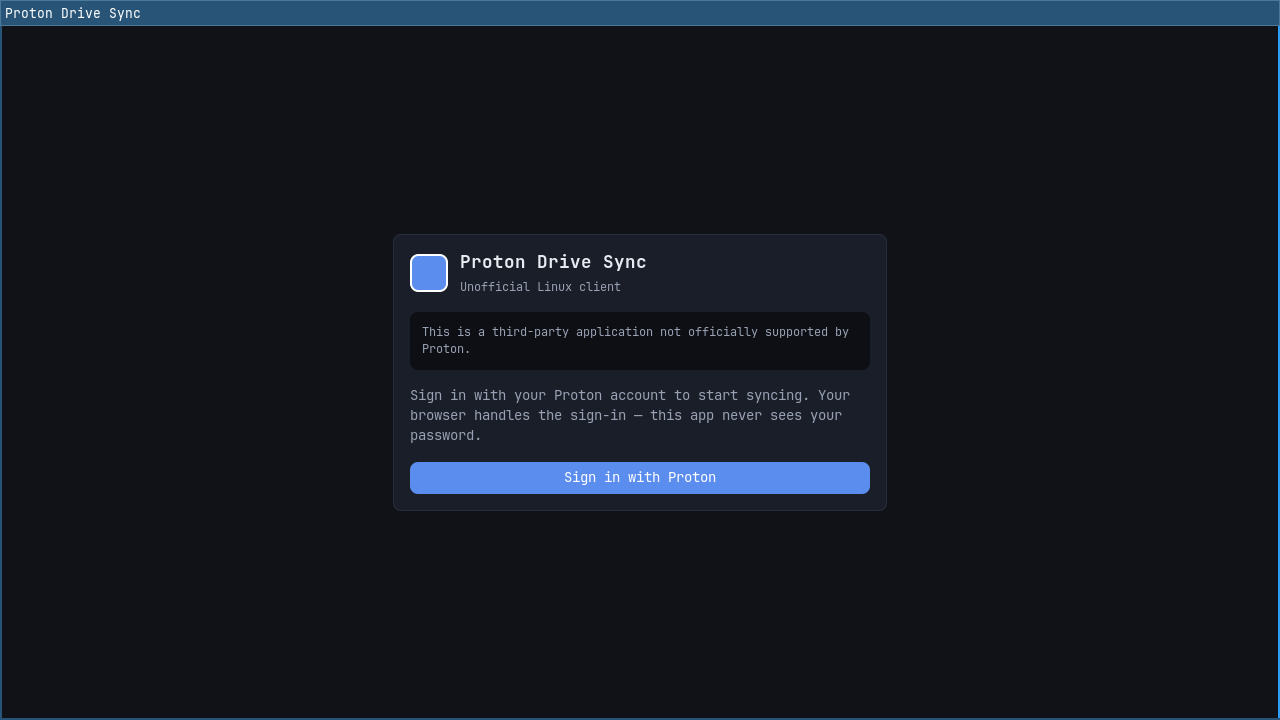
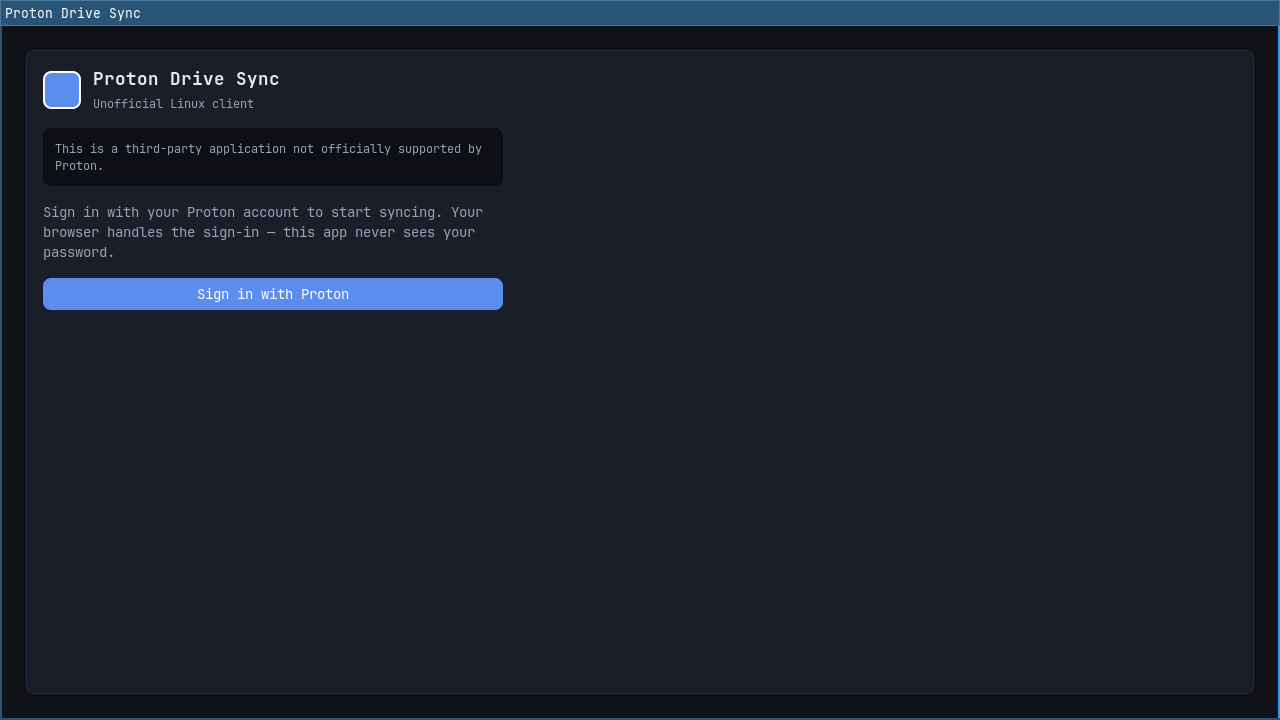
fix(mygo-shell): runtime layout and truncation issues
- Replace outer ui.Scroll page wrappers with ui.Box so pages fill the
  main content width instead of collapsing to the right.
- Add FillWidth/Grow/MinHeight to page outer containers; keep header and
  status bar at natural height.
- Widen sidebar to 260 and let the status card label wrap.
- Remove SingleLine from overview headline so long status text wraps.
- Update runtime screenshots.

diff --git a/mygo-shell/main.go b/mygo-shell/main.go
@@ -756,12 +756,16 @@ func appCard(c *ui.Context, children func()) ui.Element {
 	return ui.Box(c).Background(t.Surface).Border(1, t.Border).Radius(t.Radius).Padding(t.Space(4)).Children(children)
 }
 
+func pageCard(c *ui.Context, children func()) ui.Element {
+	return appCard(c, children).Grow(1).FillWidth()
+}
+
 func statusDot(c *ui.Context, label string, color ui.Color) ui.Element {
 	t := c.Theme()
 	size := t.Space(1.75)
-	return ui.Row(c).Gap(t.Space(2)).AlignItems(ui.Center).Children(func() {
+	return ui.Row(c).Gap(t.Space(2)).AlignItems(ui.Start).Children(func() {
 		ui.Box(c).Width(size).Height(size).Radius(size / 2).Background(color)
-		ui.Text(c, label).TextColor(color).FontSize(t.FontSize)
+		ui.Text(c, label).TextColor(color).FontSize(t.FontSize * 0.85).Grow(1)
 	})
 }
 
@@ -949,7 +953,7 @@ func (a *app) renderFailure(c *ui.Context) {
 	}
 
 	ui.Column(c).Fill().AlignItems(ui.Center).Justify(ui.Center).Padding(t.Space(6)).Children(func() {
-		appCard(c, func() {
+		pageCard(c, func() {
 			ui.Column(c).Gap(t.Space(4)).Width(520).Children(func() {
 				a.brandBlock(c)
 				ui.Text(c, "Sync is stopped").FontSize(t.FontSize * 1.25).Bold().TextColor(danger)
@@ -977,7 +981,7 @@ func (a *app) renderLogin(c *ui.Context) {
 	a.mu.Unlock()
 
 	ui.Column(c).Fill().AlignItems(ui.Center).Justify(ui.Center).Padding(t.Space(6)).Children(func() {
-		appCard(c, func() {
+		pageCard(c, func() {
 			ui.Column(c).Gap(t.Space(4)).Width(460).Children(func() {
 				a.brandBlock(c)
 				ui.Box(c).Background(inset).Padding(t.Space(3)).Radius(t.Radius).Children(func() {
@@ -1037,7 +1041,7 @@ func (a *app) renderShell(c *ui.Context) {
 	t := c.Theme()
 	ui.Row(c).Fill().Children(func() {
 		a.renderSidebar(c)
-		ui.Column(c).Grow(1).Children(func() {
+		ui.Column(c).Grow(1).MinHeight(0).Children(func() {
 			a.renderHeader(c)
 			a.renderPage(c)
 			ui.Divider(c).Height(1).Background(t.Border)
@@ -1054,7 +1058,7 @@ func (a *app) renderSidebar(c *ui.Context) {
 	account := a.accountLabel()
 	a.mu.Unlock()
 
-	ui.Column(c).Width(232).Fill().Background(sidebar).Padding(t.Space(4)).Gap(t.Space(2)).Children(func() {
+	ui.Column(c).Width(260).Fill().Background(sidebar).Padding(t.Space(4)).Gap(t.Space(2)).Children(func() {
 		a.brandBlock(c)
 
 		ui.Column(c).Gap(t.Space(1)).Grow(1).Padding(0, 0, t.Space(4), 0).Children(func() {
@@ -1063,13 +1067,13 @@ func (a *app) renderSidebar(c *ui.Context) {
 			}
 		})
 
-		appCard(c, func() {
-			ui.Column(c).Gap(t.Space(3)).Children(func() {
+		ui.Box(c).Background(t.Surface).Border(1, t.Border).Radius(t.Radius).Padding(t.Space(2)).Children(func() {
+			ui.Column(c).Gap(t.Space(2)).Children(func() {
 				dot, _, _ := a.badgeColors()
 				statusDot(c, badgeText, dot)
-				ui.Text(c, account).FontSize(t.FontSize).Bold().SingleLine()
+				ui.Text(c, account).FontSize(t.FontSize * 0.85).Bold()
 				pauseLabel := a.pauseLabel()
-				if ui.Button(c, pauseLabel).Background(accent).TextColor(ui.RGB(0xff, 0xff, 0xff)).Fill().Clicked() {
+				if ui.Button(c, pauseLabel).Background(accent).TextColor(ui.RGB(0xff, 0xff, 0xff)).Fill().FontSize(t.FontSize * 0.85).Clicked() {
 					go a.togglePause()
 				}
 			})
@@ -1226,20 +1230,20 @@ func (a *app) renderOverview(c *ui.Context) {
 	recent := a.recentActivity(7)
 	a.mu.Unlock()
 
-	ui.Scroll(c).TrackScroll(&a.overviewScroll).Grow(1).Padding(t.Space(7)).Children(func() {
-		ui.Column(c).Gap(t.Space(5)).Children(func() {
+	ui.Box(c).FillWidth().Grow(1).MinHeight(0).Padding(t.Space(7)).Children(func() {
+		ui.Column(c).Grow(1).MinHeight(0).Gap(t.Space(5)).Children(func() {
 			if a.engineState() == "GuardPaused" {
 				banner(c, "Too many deletes in a short window",
 					"Syncing is paused to protect your Drive. Review the pending deletions, then resume to approve them.",
 					danger, dangerSoft)
 			}
 
-			appCard(c, func() {
+			pageCard(c, func() {
 				ui.Column(c).Gap(t.Space(4)).Children(func() {
 					ui.Row(c).AlignItems(ui.Start).Justify(ui.SpaceBetween).Gap(t.Space(4)).Children(func() {
 						ui.Column(c).Gap(t.Space(1)).Children(func() {
 							ui.Text(c, headline).FontSize(t.FontSize * 1.75).Bold()
-							ui.Text(c, account).FontSize(t.FontSize).TextColor(t.TextMuted)
+							ui.Text(c, account).FontSize(t.FontSize).TextColor(t.TextMuted).SingleLine()
 						})
 						pill(c, badgeText, badgeFg, badgeBg)
 					})
@@ -1273,7 +1277,7 @@ func (a *app) renderOverview(c *ui.Context) {
 			})
 
 			if attention > 0 {
-				appCard(c, func() {
+				pageCard(c, func() {
 					ui.Column(c).Gap(t.Space(3)).Children(func() {
 						ui.Row(c).AlignItems(ui.Center).Justify(ui.SpaceBetween).Children(func() {
 							sectionTitle(c, "Needs attention", "Conflicts and failed uploads")
@@ -1292,7 +1296,7 @@ func (a *app) renderOverview(c *ui.Context) {
 				})
 			}
 
-			appCard(c, func() {
+			pageCard(c, func() {
 				ui.Column(c).Gap(t.Space(3)).Children(func() {
 					ui.Row(c).AlignItems(ui.Center).Justify(ui.SpaceBetween).Children(func() {
 						sectionTitle(c, "Recent activity", "Newest first")
@@ -1333,48 +1337,48 @@ func (a *app) renderActivity(c *ui.Context) {
 
 	rows := a.filteredActivity(f)
 
-	ui.Column(c).Grow(1).MinHeight(0).Padding(t.Space(7)).Gap(t.Space(4)).Children(func() {
-		ui.Row(c).Gap(t.Space(2)).Wrap().Children(func() {
-			for _, candidate := range allFilters {
-				active := candidate == f
-				count := a.activityCount(candidate)
-				el := ui.Button(c, fmt.Sprintf("%s %d", candidate.label(), count)).
-					FontSize(t.FontSize*0.85).Padding(t.Space(1), t.Space(3)).Radius(999)
-				if active {
-					el = el.Background(accent).TextColor(t.Text)
-				} else {
-					el = el.Background(t.Surface).TextColor(t.TextMuted)
-				}
-				if el.Clicked() {
-					a.setFilter(candidate)
-				}
-			}
-		})
-
-		appCard(c, func() {
-			ui.Column(c).Grow(1).MinHeight(0).Children(func() {
-				ui.Row(c).AlignItems(ui.Center).Justify(ui.SpaceBetween).Padding(t.Space(3), t.Space(4)).Children(func() {
-					ui.Text(c, fmt.Sprintf("%d %s", len(rows), pluralize(len(rows), "event", "events"))).FontSize(t.FontSize).Bold()
-					if ui.Button(c, "Settings").Background(t.SurfaceHover).TextColor(t.Text).Clicked() {
-						a.setPage(pageSettings)
+	ui.Box(c).FillWidth().Grow(1).MinHeight(0).Padding(t.Space(7)).Children(func() {
+		ui.Column(c).Grow(1).MinHeight(0).Gap(t.Space(4)).Children(func() {
+			ui.Row(c).Gap(t.Space(2)).Wrap().Children(func() {
+				for _, candidate := range allFilters {
+					active := candidate == f
+					count := a.activityCount(candidate)
+					el := ui.Button(c, fmt.Sprintf("%s %d", candidate.label(), count)).
+						FontSize(t.FontSize*0.85).Padding(t.Space(1), t.Space(3)).Radius(999)
+					if active {
+						el = el.Background(accent).TextColor(t.Text)
+					} else {
+						el = el.Background(t.Surface).TextColor(t.TextMuted)
 					}
-				})
-				if len(rows) == 0 {
-					emptyState(c, "Nothing here yet", "Sync activity will show up as files move in either direction.")
-				} else {
-					ui.Row(c).Gap(t.Space(3)).Padding(t.Space(2), t.Space(4)).Children(func() {
-						ui.Text(c, "Time").FontSize(t.FontSize * 0.85).TextColor(faint).Width(64)
-						ui.Text(c, "Event").FontSize(t.FontSize * 0.85).TextColor(faint).Width(92)
-						ui.Text(c, "Path").FontSize(t.FontSize * 0.85).TextColor(faint).Grow(1)
+					if el.Clicked() {
+						a.setFilter(candidate)
+					}
+				}
+			})
+
+			pageCard(c, func() {
+				ui.Column(c).Grow(1).MinHeight(0).Children(func() {
+					ui.Row(c).AlignItems(ui.Center).Justify(ui.SpaceBetween).Padding(t.Space(3), t.Space(4)).Children(func() {
+						ui.Text(c, fmt.Sprintf("%d %s", len(rows), pluralize(len(rows), "event", "events"))).FontSize(t.FontSize).Bold()
+						if ui.Button(c, "Settings").Background(t.SurfaceHover).TextColor(t.Text).Clicked() {
+							a.setPage(pageSettings)
+						}
 					})
-					ui.Scroll(c).TrackScroll(&a.activityScroll).Grow(1).Children(func() {
-						ui.Column(c).Children(func() {
+					if len(rows) == 0 {
+						emptyState(c, "Nothing here yet", "Sync activity will show up as files move in either direction.")
+					} else {
+						ui.Row(c).Gap(t.Space(3)).Padding(t.Space(2), t.Space(4)).Children(func() {
+							ui.Text(c, "Time").FontSize(t.FontSize * 0.85).TextColor(faint).Width(64)
+							ui.Text(c, "Event").FontSize(t.FontSize * 0.85).TextColor(faint).Width(92)
+							ui.Text(c, "Path").FontSize(t.FontSize * 0.85).TextColor(faint).Grow(1)
+						})
+						ui.Column(c).Grow(1).MinHeight(0).Children(func() {
 							for _, it := range rows {
 								a.activityRow(c, it)
 							}
 						})
-					})
-				}
+					}
+				})
 			})
 		})
 	})
@@ -1411,16 +1415,16 @@ func (a *app) renderConflicts(c *ui.Context) {
 	errored := append([]erroredItem(nil), a.errored...)
 	a.mu.Unlock()
 
-	ui.Scroll(c).TrackScroll(&a.conflictsScroll).Grow(1).Padding(t.Space(7)).Children(func() {
-		ui.Column(c).Gap(t.Space(5)).Children(func() {
+	ui.Box(c).FillWidth().Grow(1).MinHeight(0).Padding(t.Space(7)).Children(func() {
+		ui.Column(c).Grow(1).MinHeight(0).Gap(t.Space(5)).Children(func() {
 			if len(conflicts) == 0 && len(errored) == 0 {
-				appCard(c, func() {
+				pageCard(c, func() {
 					emptyState(c, "Everything is in sync", "No conflicts or failed uploads. Keep-both copies and upload errors will show up here.")
 				})
 			}
 
 			if len(conflicts) > 0 {
-				appCard(c, func() {
+				pageCard(c, func() {
 					ui.Column(c).Gap(t.Space(3)).Children(func() {
 						sectionTitle(c, "Conflicts", "The remote copy changed while a local edit was pending")
 						for _, path := range conflicts {
@@ -1435,7 +1439,7 @@ func (a *app) renderConflicts(c *ui.Context) {
 			}
 
 			if len(errored) > 0 {
-				appCard(c, func() {
+				pageCard(c, func() {
 					ui.Column(c).Gap(t.Space(3)).Children(func() {
 						sectionTitle(c, "Failed uploads", "These files stay local until the next successful retry")
 						for _, it := range errored {
@@ -1478,8 +1482,8 @@ func (a *app) renderSettings(c *ui.Context) {
 	mountErr := a.mountError
 	a.mu.Unlock()
 
-	ui.Scroll(c).TrackScroll(&a.settingsScroll).Grow(1).Padding(t.Space(7)).Children(func() {
-		ui.Column(c).Gap(t.Space(4)).Children(func() {
+	ui.Box(c).FillWidth().Grow(1).MinHeight(0).Padding(t.Space(7)).Children(func() {
+		ui.Column(c).Grow(1).MinHeight(0).Gap(t.Space(4)).Children(func() {
 			if switching {
 				banner(c, "Switching sync mode…", "The sync engine is restarting with your new setting. This notice clears when the new mode is active.", accent, inset)
 			}
@@ -1489,14 +1493,14 @@ func (a *app) renderSettings(c *ui.Context) {
 					warn, warnSoft)
 			}
 
-			appCard(c, func() {
+			pageCard(c, func() {
 				ui.Column(c).Gap(t.Space(3)).Children(func() {
 					sectionTitle(c, "Account", "The Proton account this sync root belongs to")
 					fieldRow(c, "Signed in as", account)
 				})
 			})
 
-			appCard(c, func() {
+			pageCard(c, func() {
 				ui.Column(c).Gap(t.Space(4)).Children(func() {
 					sectionTitle(c, "Sync mode", "")
 					for _, m := range []syncMode{modePlaceholders, modeMirror} {
@@ -1534,7 +1538,7 @@ func (a *app) renderSettings(c *ui.Context) {
 			})
 
 			if currentMode == modePlaceholders {
-				appCard(c, func() {
+				pageCard(c, func() {
 					ui.Column(c).Gap(t.Space(3)).Children(func() {
 						ui.Row(c).AlignItems(ui.Center).Justify(ui.SpaceBetween).Children(func() {
 							ui.Text(c, "Local cache").FontSize(t.FontSize).Bold()
@@ -1570,7 +1574,7 @@ func (a *app) renderSettings(c *ui.Context) {
 				})
 			}
 
-			appCard(c, func() {
+			pageCard(c, func() {
 				ui.Column(c).Gap(t.Space(3)).Children(func() {
 					sectionTitle(c, "Sync folder", "")
 					fieldRow(c, "Location", root)
@@ -1585,7 +1589,7 @@ func (a *app) renderSettings(c *ui.Context) {
 				})
 			})
 
-			appCard(c, func() {
+			pageCard(c, func() {
 				ui.Column(c).Gap(t.Space(3)).Children(func() {
 					sectionTitle(c, "Startup", "Keep syncing in the background without opening the dashboard")
 					ui.Row(c).AlignItems(ui.Center).Justify(ui.SpaceBetween).Gap(t.Space(4)).Children(func() {
@@ -1605,7 +1609,7 @@ func (a *app) renderSettings(c *ui.Context) {
 				})
 			})
 
-			appCard(c, func() {
+			pageCard(c, func() {
 				ui.Column(c).Gap(t.Space(3)).Children(func() {
 					sectionTitle(c, "Account actions", "")
 					ui.Row(c).Gap(t.Space(3)).Children(func() {
@@ -1619,7 +1623,7 @@ func (a *app) renderSettings(c *ui.Context) {
 				})
 			})
 
-			appCard(c, func() {
+			pageCard(c, func() {
 				ui.Column(c).Gap(t.Space(3)).Children(func() {
 					sectionTitle(c, "About", "A third-party client built on Proton's official Drive SDK")
 					fieldRow(c, "Application", fmt.Sprintf("%s %s", appTitle, appVersion()))
